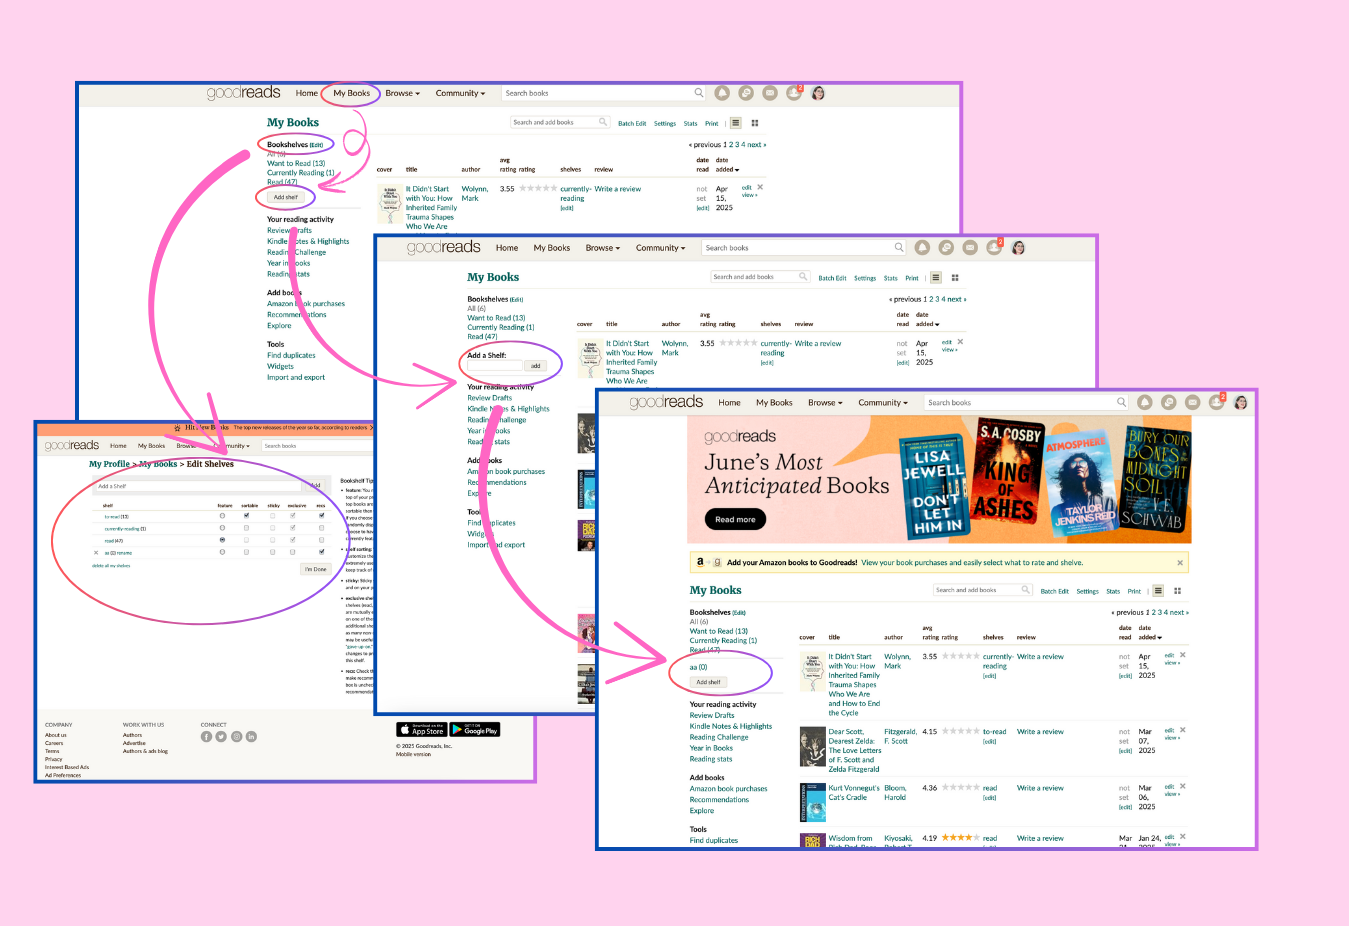
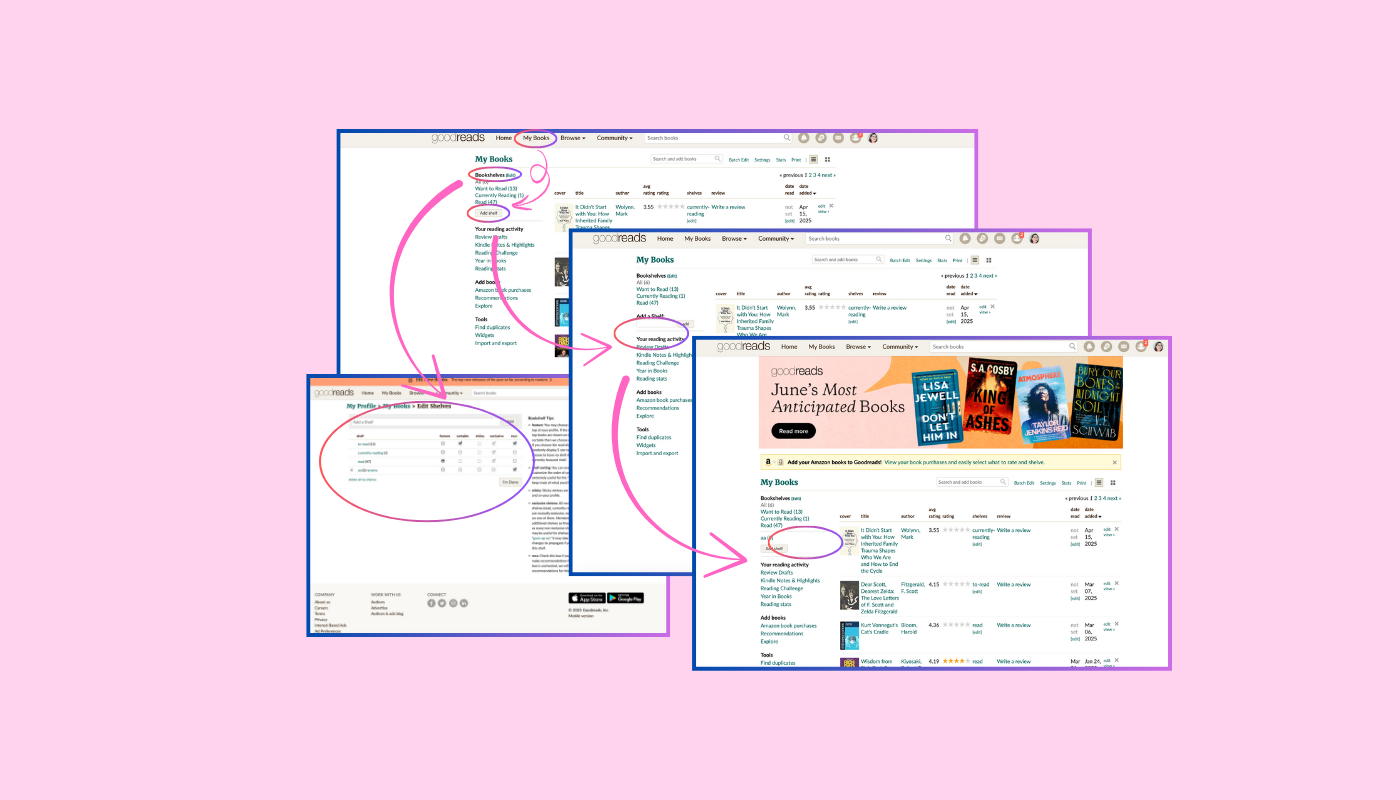
Update Before1 image in UIComparisonSection component to the latest version

diff --git a/src/components/UIComparisonSection.jsx b/src/components/UIComparisonSection.jsx
@@ -6,7 +6,7 @@ import { IoMdCheckmarkCircle } from 'react-icons/io';
 import MagnifiableImage from './MagnifiableImage';
 
 // Import images with correct filenames
-import beforeImage from '../assets/Before10.png';
+import beforeImage from '../assets/Before1.png';
 import afterImage from '../assets/After1.png';
 
 
